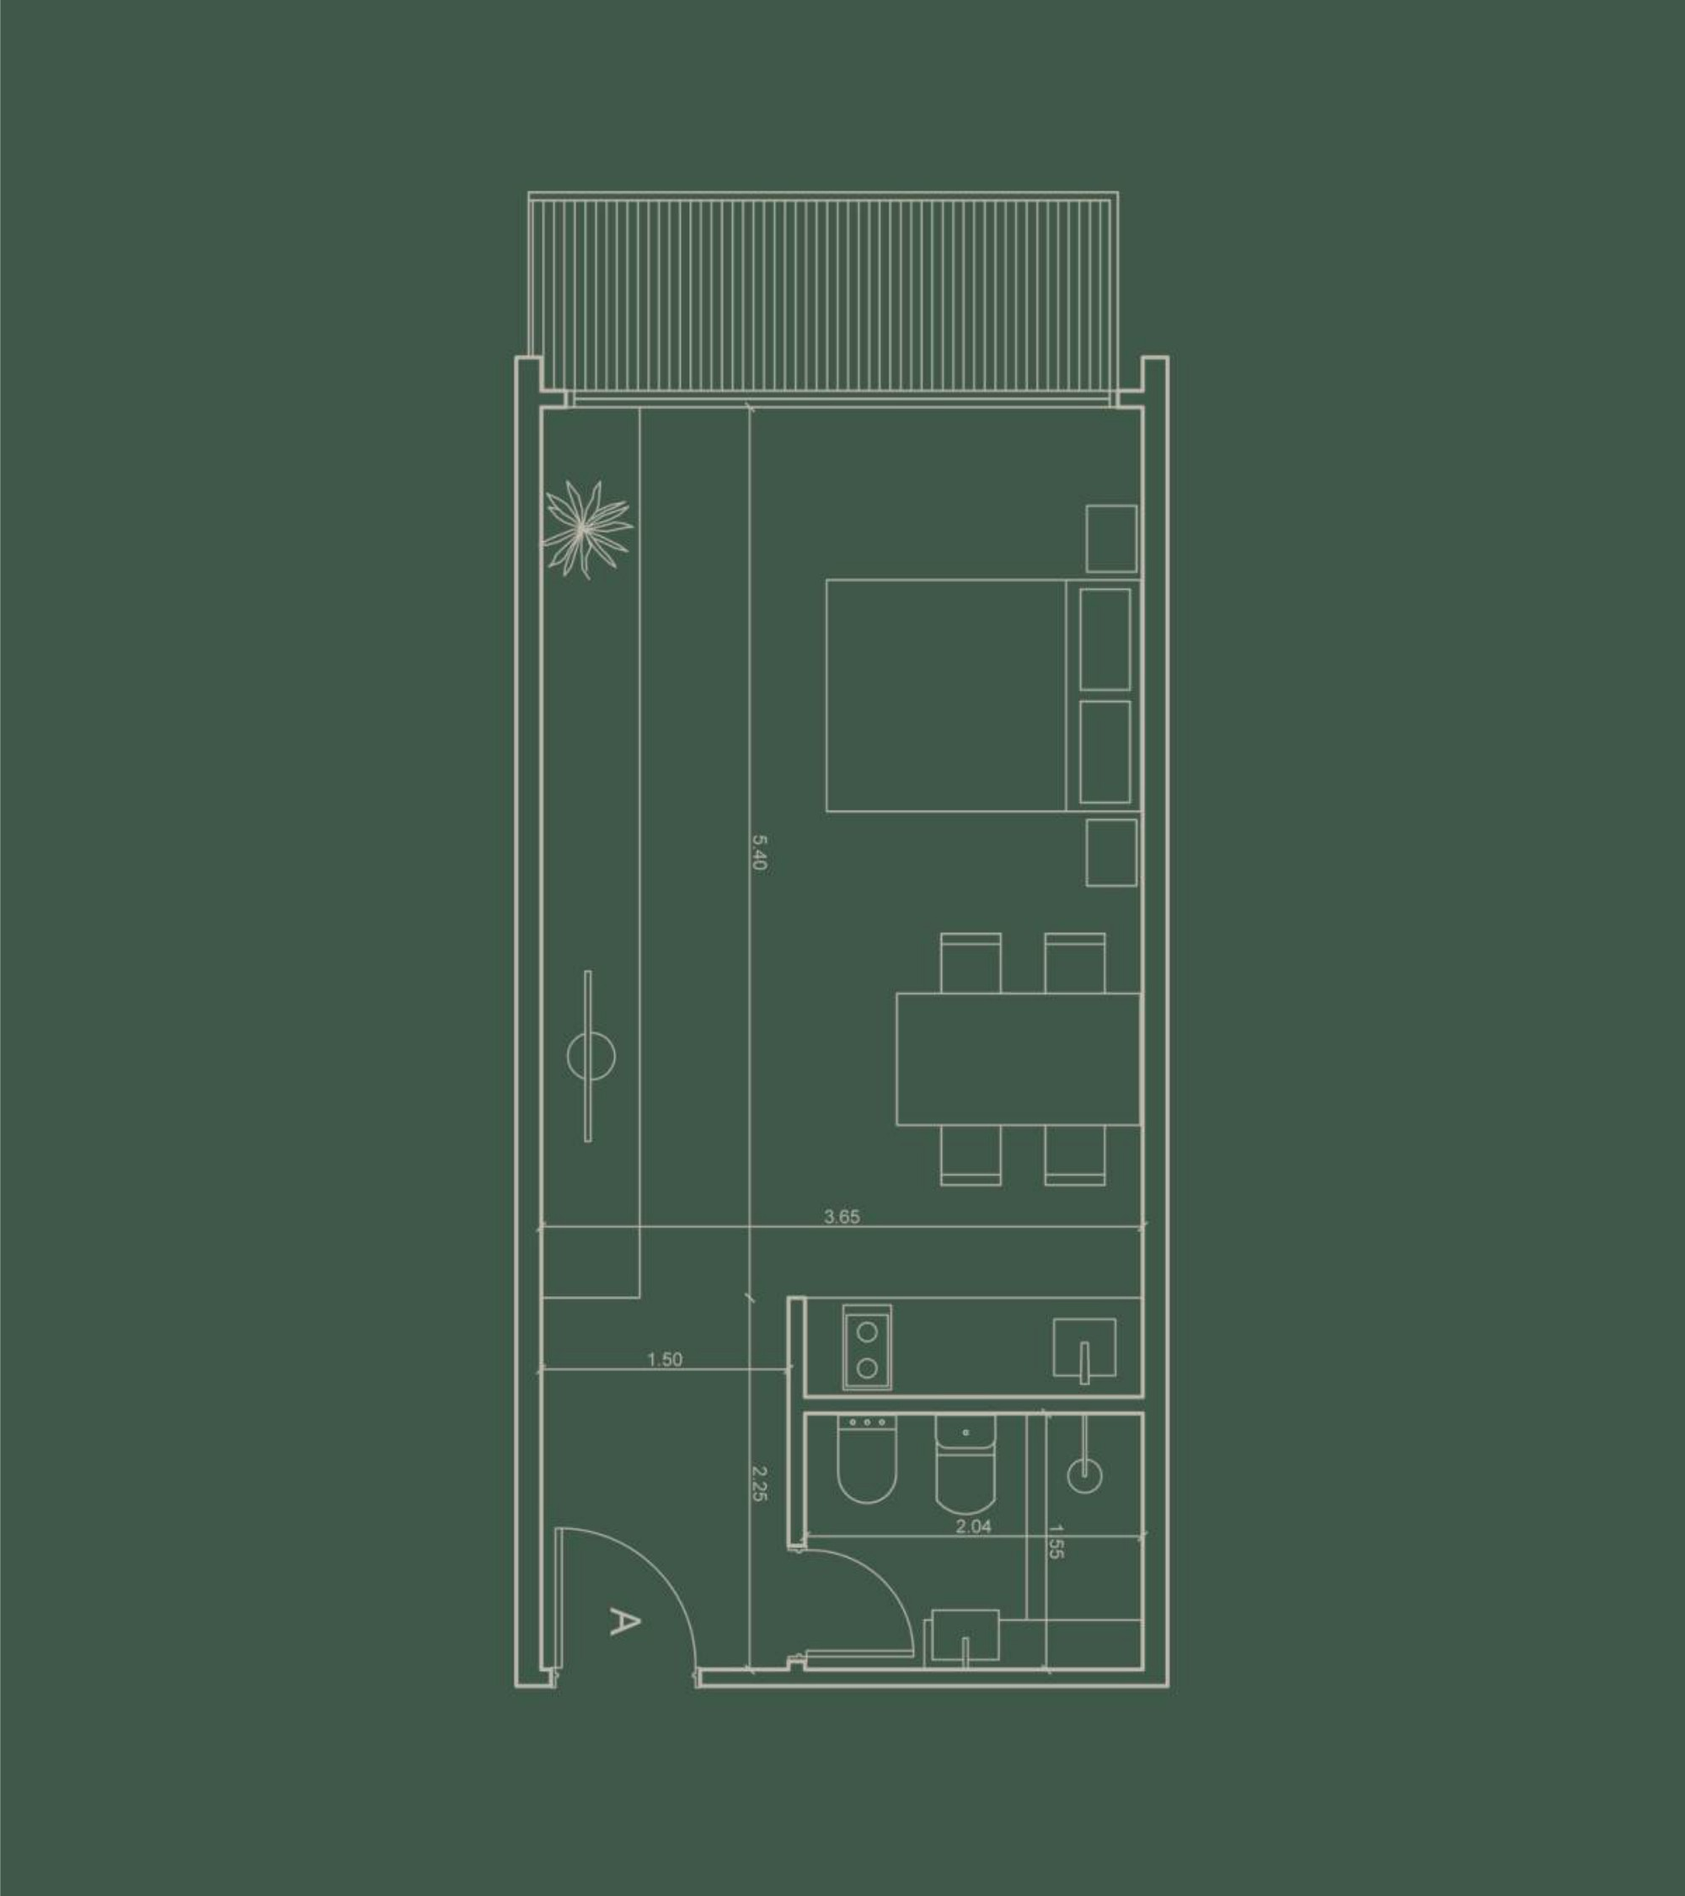
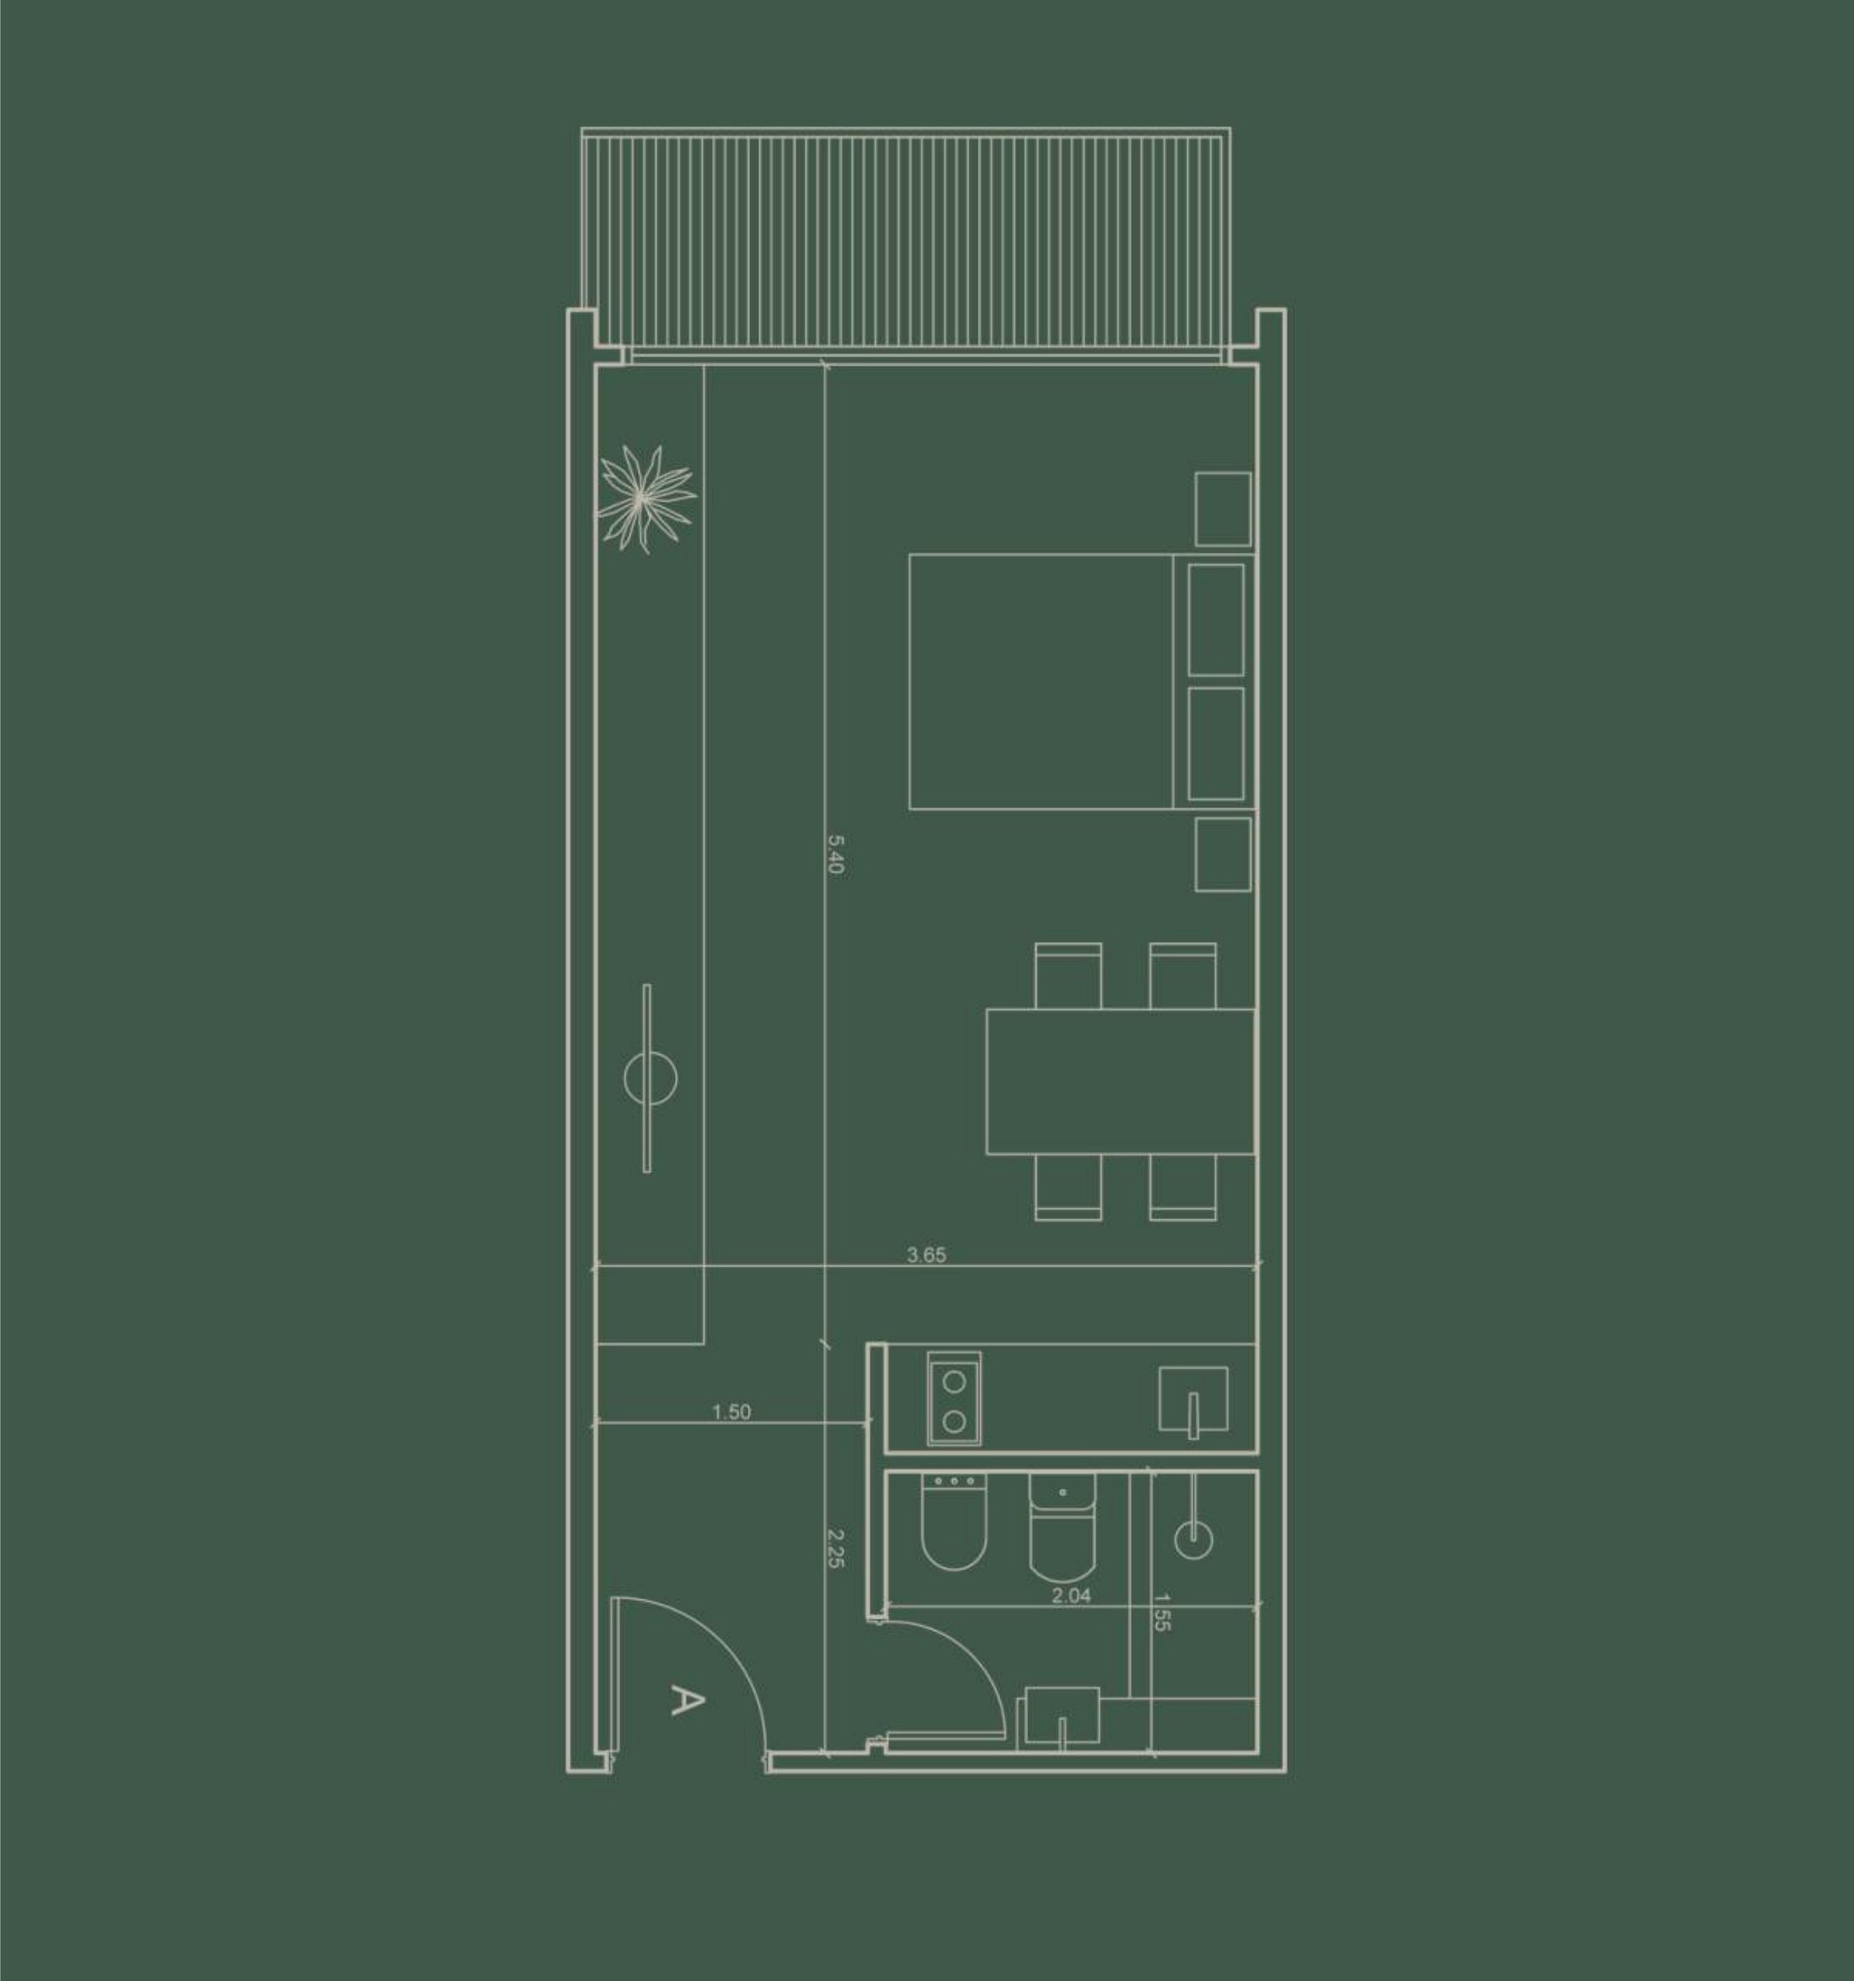
Wood Recoleta: renders reales (hero, edificio, interiores) + galeria + planta por unidad
- Reemplazo hero y Habitar con renders del proyecto (atardecer y detalle de balcones)
- Terminaciones ahora muestra la cocina real (mesada Silestone / porcelanato)
- Nueva galeria de interiores (living, dormitorios, bano) con lightbox
- Panel de unidad: muestra tipologia, m2 y la PLANTA del brochure segun piso+unidad
- Lightbox para ampliar plantas e interiores
- 7 plantas extraidas del brochure (A, B 1-5, B 6-10, C 1, C 2-5, C 6-10, D)

diff --git a/desarrollos/wood-recoleta/index.html b/desarrollos/wood-recoleta/index.html
@@ -288,8 +288,8 @@
       <a class="ver-unidades" href="#disponibilidad">Ver unidades disponibles <span class="ar">→</span></a>
     </div>
     <div class="planobox">
-      <img src="img/plano-a.jpg" alt="Plano tipo · Unidad A">
-      <div class="cap">Unidad A · Monoambiente · 34,26 m²</div>
+      <img src="img/int-cocina.jpg" alt="Cocina · terminaciones WOOD Recoleta">
+      <div class="cap">Cocina integrada · mesada Silestone y porcelanato</div>
     </div>
   </div>
 </section>
@@ -306,6 +306,37 @@
       <div class="tipo"><div class="n">2 ambientes</div><div class="m">51 m²</div><div class="d">Las unidades más amplias del edificio, con generosos ambientes y balcón. Unidades ideales para vivienda o consultorios.</div></div>
     </div>
     <p class="foot">12 pisos + local comercial a la calle · consultá disponibilidad, plantas y precios actualizados.</p>
+  </div>
+</section>
+
+<!-- GALERÍA INTERIORES -->
+<style>
+  .galery{background:var(--paper)}
+  .galery .head{text-align:center;max-width:640px;margin:0 auto}
+  .galery .head .subt{margin:2px auto 0}
+  .gal-grid{margin-top:44px;display:grid;grid-template-columns:repeat(3,1fr);gap:14px;max-width:1080px;margin-left:auto;margin-right:auto}
+  .gal-item{position:relative;overflow:hidden;border-radius:5px;cursor:zoom-in;background:var(--green-3);aspect-ratio:4/3}
+  .gal-item.wide{grid-column:span 2}
+  .gal-item img{width:100%;height:100%;object-fit:cover;display:block;transition:transform .6s cubic-bezier(.2,.7,.2,1)}
+  .gal-item:hover img{transform:scale(1.05)}
+  .gal-item .gcap{position:absolute;left:0;right:0;bottom:0;padding:22px 16px 12px;font-size:11px;letter-spacing:.14em;text-transform:uppercase;color:#fff;font-weight:500;background:linear-gradient(to top,rgba(40,56,46,.82),transparent)}
+  @media(max-width:720px){.gal-grid{grid-template-columns:repeat(2,1fr);gap:10px}.gal-item.wide{grid-column:span 2}}
+</style>
+<section class="galery">
+  <div class="wrap reveal">
+    <div class="head">
+      <div class="eyebrow">Interiores</div>
+      <h2 class="title">Espacios pensados para habitar</h2>
+      <div class="subt">/ renders del proyecto</div>
+    </div>
+    <div class="gal-grid">
+      <div class="gal-item wide"><img src="img/int-2amb-living.jpg" alt="2 ambientes · living" loading="lazy"><div class="gcap">2 ambientes · living</div></div>
+      <div class="gal-item"><img src="img/int-mono-living.jpg" alt="Monoambiente · living" loading="lazy"><div class="gcap">Monoambiente · living</div></div>
+      <div class="gal-item"><img src="img/int-2amb-dorm.jpg" alt="2 ambientes · dormitorio" loading="lazy"><div class="gcap">2 ambientes · dormitorio</div></div>
+      <div class="gal-item"><img src="img/int-mono2-living.jpg" alt="Monoambiente · living con vista" loading="lazy"><div class="gcap">Living · con vista</div></div>
+      <div class="gal-item"><img src="img/int-bano.jpg" alt="Baño · porcelanato" loading="lazy"><div class="gcap">Baño · porcelanato</div></div>
+    </div>
+    <a class="ver-unidades" href="#disponibilidad" style="justify-content:center;margin-top:38px">Ver unidades disponibles <span class="ar">→</span></a>
   </div>
 </section>
 
@@ -344,7 +375,15 @@
   .detail .empty{color:var(--muted);font-size:14px;font-weight:300;line-height:1.7}
   .detail .dp{font-size:11px;letter-spacing:.24em;text-transform:uppercase;color:var(--green)}
   .detail .du{font-family:var(--sans);font-size:27px;color:var(--ink);font-weight:600;letter-spacing:.01em;margin-top:4px;line-height:1}
-  .detail .dt{font-size:13.5px;color:var(--muted);margin-top:6px;font-weight:300}
+  .detail .dtipo{font-family:var(--sans);font-size:13px;font-weight:600;color:var(--green);margin-top:8px;letter-spacing:.01em}
+  .detail .dt{font-size:13.5px;color:var(--muted);margin-top:5px;font-weight:300}
+  .detail .dplano{margin-top:16px;border:1px solid var(--line);border-radius:6px;overflow:hidden;background:var(--green);cursor:zoom-in}
+  .detail .dplano img{display:block;width:100%;height:auto;max-height:380px;object-fit:contain;background:var(--green)}
+  .detail .dplano-cap{font-size:10px;letter-spacing:.2em;text-transform:uppercase;color:rgba(255,255,255,.72);text-align:center;padding:9px;background:var(--green-2)}
+  .plb{position:fixed;inset:0;z-index:200;background:rgba(40,56,46,.94);display:none;align-items:center;justify-content:center;padding:24px;cursor:zoom-out}
+  .plb.on{display:flex}
+  .plb img{max-width:100%;max-height:100%;object-fit:contain;border-radius:4px}
+  .plb-x{position:absolute;top:16px;right:20px;background:none;border:none;color:#fff;font-size:38px;line-height:1;cursor:pointer;opacity:.85;font-family:var(--sans)}
   .detail .price{font-family:var(--sans);font-size:30px;color:var(--green);font-weight:600;letter-spacing:.01em;font-variant-numeric:tabular-nums;margin-top:2px;line-height:1}
   .detail .pblock{margin-top:16px;padding-top:16px;border-top:1px solid var(--line)}
   .detail .pbl{font-size:10.5px;letter-spacing:.16em;text-transform:uppercase;color:var(--green);font-weight:600;margin-bottom:8px}
@@ -458,6 +497,20 @@
   ];
   var fmtU = function(n){ return 'U$S ' + n.toLocaleString('es-AR'); };
   var disp = function(x){ return x.fin != null || x.cash != null; };
+  var planInfo = function(pnum, u){
+    if (u === 'A') return {img:'plano-a', tipo:'Monoambiente', m2:'34,26 m²'};
+    if (u === 'B') return pnum <= 5
+      ? {img:'plano-b-1a5', tipo:'Monoambiente', m2:'36,99 m²'}
+      : {img:'plano-b-6a10', tipo:'Monoambiente', m2:'40,69 m²'};
+    if (u === 'C'){
+      if (pnum === 1) return {img:'plano-c-1', tipo:'2 Ambientes', m2:'107,68 m² · con terraza propia'};
+      return pnum <= 5
+        ? {img:'plano-c-2a5', tipo:'Estudio profesional', m2:'27,17 m²'}
+        : {img:'plano-c-6a10', tipo:'2 Ambientes', m2:'50,83 m²'};
+    }
+    if (u === 'D') return {img:'plano-d', tipo:'Estudio profesional', m2:'25,79 m²'};
+    return null;
+  };
   var bld = document.getElementById('bld');
   if (bld){
     var h = '<div class="roof"></div>';
@@ -481,7 +534,11 @@
       var fi = +cell.getAttribute('data-f'), f = FLOORS[fi], x = f.us[+cell.getAttribute('data-u')];
       var pref = (x.fin != null) ? x.fin : x.cash;
       var msg = encodeURIComponent('¡Hola! Me interesa la unidad '+f.p+' '+x.u+' de WOOD Recoleta (Larrea 1180), publicada en '+fmtU(pref)+'. ¿Me pasás la planta y más info?');
-      var html = '<div class="dp">Unidad disponible</div><div class="du">'+f.p+' · '+x.u+'</div><div class="dt">WOOD Recoleta · Larrea 1180, Recoleta</div>';
+      var pi = planInfo(parseInt(f.p, 10), x.u);
+      var html = '<div class="dp">Unidad disponible</div><div class="du">'+f.p+' · '+x.u+'</div>';
+      if (pi) html += '<div class="dtipo">'+pi.tipo+' · '+pi.m2+'</div>';
+      html += '<div class="dt">WOOD Recoleta · Larrea 1180, Recoleta</div>';
+      if (pi) html += '<div class="dplano"><img src="img/'+pi.img+'.jpg" alt="Planta unidad '+x.u+' — '+pi.tipo+'" loading="lazy"><div class="dplano-cap">Planta · Unidad '+x.u+'</div></div>';
       if (x.fin != null){
         var adelanto = Math.round(x.fin * 0.30), cuota = Math.round(x.fin * 0.70 / 24);
         html += '<div class="pblock"><div class="pbl">Precio financiado · 30% + 24 cuotas</div>'+
@@ -496,7 +553,21 @@
       html += '<a class="dwa" href="https://wa.me/'+TEL+'?text='+msg+'" target="_blank" rel="noopener"><svg width="15" height="15" viewBox="0 0 24 24" fill="currentColor"><path d="M12 0C5.373 0 0 5.373 0 12c0 2.126.554 4.118 1.521 5.851L.057 23.882l6.198-1.427A11.946 11.946 0 0012 24c6.627 0 12-5.373 12-12S18.627 0 12 0z"/></svg> Consultar esta unidad</a>';
       detail.innerHTML = html;
     });
+    detail.addEventListener('click', function(e){
+      var box = e.target.closest('.dplano'); if (!box) return;
+      openLB(box.querySelector('img').src);
+    });
   }
+  // Lightbox global (plantas + galería de interiores)
+  var lb = document.createElement('div'); lb.className = 'plb'; lb.innerHTML = '<img alt="Imagen ampliada"><button class="plb-x" aria-label="Cerrar">×</button>';
+  document.body.appendChild(lb);
+  var lbImg = lb.querySelector('img');
+  function openLB(src){ lbImg.src = src; lb.classList.add('on'); }
+  lb.addEventListener('click', function(){ lb.classList.remove('on'); });
+  document.addEventListener('keydown', function(e){ if (e.key === 'Escape') lb.classList.remove('on'); });
+  Array.prototype.forEach.call(document.querySelectorAll('.gal-item'), function(g){
+    g.addEventListener('click', function(){ openLB(g.querySelector('img').src); });
+  });
 </script>
 </body>
 </html>
